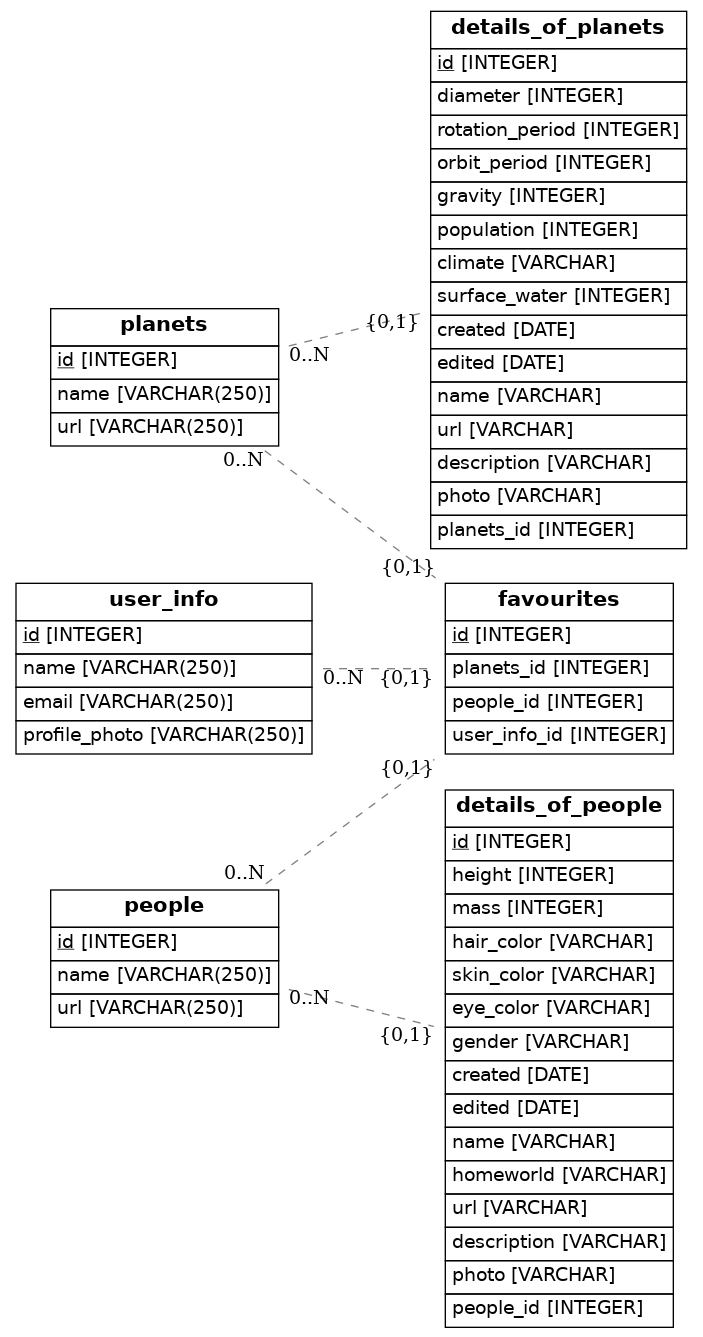
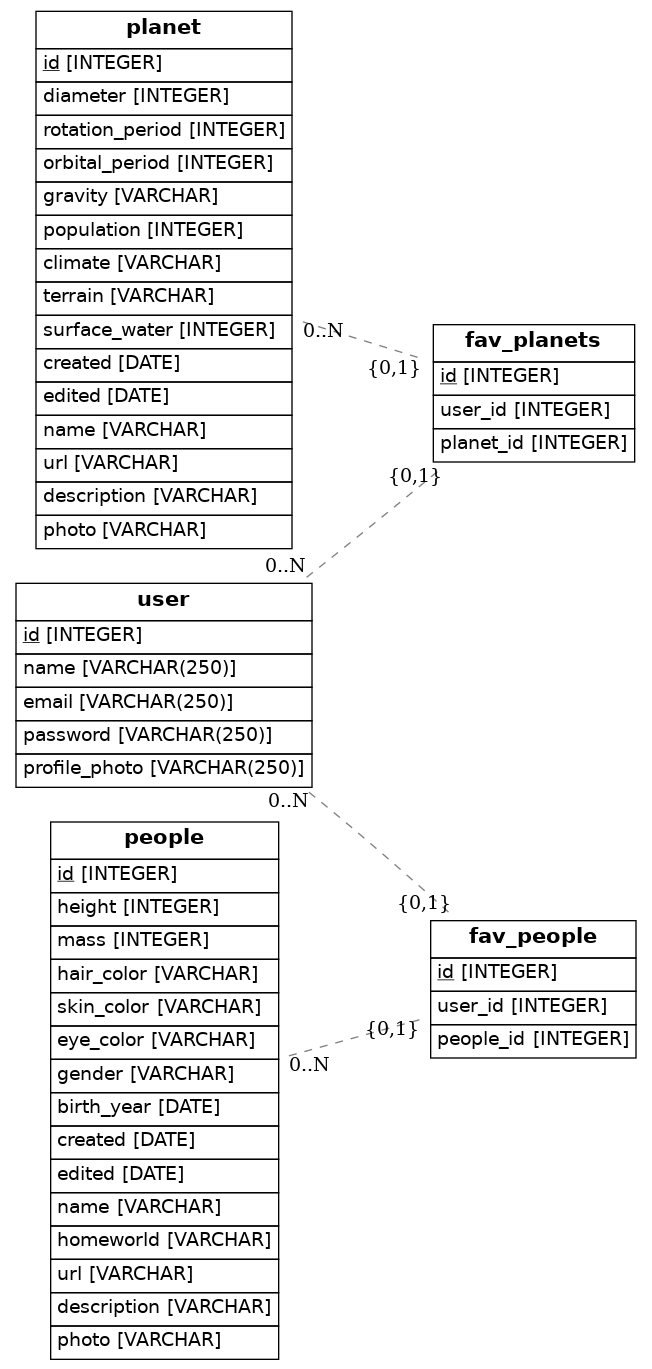
correcion

Changed region(s): [[0.0, 0.0, 0.5521, 1.0], [0.5521, 0.0, 0.9816, 1.0], [0.5521, 0.552, 0.6135, 0.5826]]

diff --git a/src/models.py b/src/models.py
@@ -8,90 +8,143 @@ from eralchemy import render_er
 
 Base = declarative_base()
 
-class People(Base):
-    __tablename__ = 'people'
-    # Here we define columns for the table person
-    # Notice that each column is also a normal Python instance attribute.
-    id = Column(Integer, primary_key=True)
-    name = Column(String(250))
-    url = Column(String(250))
+class Fav_Planets(Base):
+    __tablename__ = 'fav_planets'
 
-class Planets(Base):
-    __tablename__ = 'planets'
+    id = Column(Integer, primary_key=True)
+    user_id = Column(Integer, ForeignKey('user.id'), nullable=False)
+    planet_id = Column(Integer, ForeignKey('planet.id'), nullable=False)
+
+    def serialize(self):
+        return {
+            "id": self.id,
+            "user_id": self.user_id,
+            "planet_id": self.planet_id
+        }
+
+class Fav_People(Base):
+    __tablename__ = 'fav_people'
     # Here we define columns for the table address.
     # Notice that each column is also a normal Python instance attribute.
     id = Column(Integer, primary_key=True)
-    name = Column(String(250)) 
-    url = Column(String(250))
+    user_id = Column(Integer, ForeignKey('user.id'), nullable=False)
+    people_id = Column(Integer, ForeignKey('people.id'), nullable=False)
 
-class Details_of_People(Base):
-    __tablename__ = 'details_of_people'
-    # Here we define columns for the table person
-    # Notice that each column is also a normal Python instance attribute.
+    def serialize(self):
+        return {
+            "id": self.id,
+            "user_id": self.user_id,
+            "people_id": self.people_id
+        }
+
+class Detail_of_Planet(Base):
+    __tablename__ = 'planet'
+    
+    id = Column(Integer, primary_key=True)
+    diameter = Column(Integer)
+    rotation_period = Column(Integer)
+    orbital_period = Column(Integer)
+    gravity = Column(String)
+    population = Column(Integer)
+    climate = Column(String)
+    terrain = Column(String)
+    surface_water = Column(Integer)
+    created = Column(Date)
+    edited = Column(Date)
+    name = Column(String) 
+    url = Column(String)
+    description = Column(String)
+    photo = Column(String)
+    liked_by_users = relationship("Planet_Fav", backref="planet")
+
+    def serialize(self):
+        return {
+            "id": self.id,
+            "diameter": self.diameter,
+            "rotation_period": self.rotation_period,
+            "orbital_period": self.orbital_period,
+            "gravity": self.gravity,
+            "population": self.population,
+            "climate": self.climate,
+            "terrain": self.terrain,
+            "surface_water": self.surface_water,
+            "created": self.created,
+            "edited": self.edited,
+            "name": self.name,
+            "url": self.url,
+            "description": self.description,
+            "photo": self.photo,
+        }
+
+
+    
+class Detail_of_People(Base):
+    __tablename__ = 'people'
+    
     id = Column(Integer, primary_key=True)
     height = Column(Integer)
     mass = Column(Integer)
     hair_color = Column(String)
     skin_color = Column(String)
     eye_color = Column(String)
+    birth_year = Column(Date)
     gender = Column(String)
-    created = Column(Date)
-    edited = Column(Date)
-    name =  Column(String)
-    homeworld =  Column(String)
-    url =  Column(String)
-    description =  Column(String)
-    photo = Column(String)
-    people_id = Column(Integer, ForeignKey('people.id'))
-    people = relationship(People)
-    
-    
-class Details_of_Planets(Base):
-    __tablename__ = 'details_of_planets'
-    # Here we define columns for the table person
-    # Notice that each column is also a normal Python instance attribute.
-    id = Column(Integer, primary_key=True)
-    diameter = Column(Integer)
-    rotation_period = Column(Integer)
-    orbit_period = Column(Integer)
-    gravity = Column(Integer)
-    population = Column(Integer)
-    climate = Column(String)
-    surface_water = Column(Integer)
+    birth_year = Column(Date)
     created = Column(Date)
     edited = Column(Date)
     name = Column(String)
+    homeworld = Column(String)
     url = Column(String)
     description = Column(String)
-    photo =  Column(String)
-    planets_id = Column(Integer, ForeignKey('planets.id'))
-    planets = relationship(Planets)
+    photo = Column(String)
+    liked_by_users = relationship("People_Fav", backref="people")
 
-class User_info(Base):
-    __tablename__ = 'user_info'
-    # Here we define columns for the table person
-    # Notice that each column is also a normal Python instance attribute.
+    def serialize(self):
+        return {
+            "id": self.id,
+            "height": self.height,
+            "mass": self.mass,
+            "hair_color": self.hair_color,
+            "skin_color": self.skin_color,
+            "eye_color": self.eye_color,
+            "birth_year": self.birth_year,
+            "created": self.created,
+            "edited": self.edited,
+            "name": self.name,
+            "homeworld": self.homeworld,
+            "url": self.url,
+            "description": self.description,
+            "photo": self.photo
+        }
+
+class User_Info(Base):
+    __tablename__ = 'user'
+    
     id = Column(Integer, primary_key=True)
     name = Column(String(250), nullable=False)
-    email = Column(String(250), nullable=False)
-    profile_photo  = Column(String(250), nullable=False)
-    
+    email = Column(String(250), nullable=False, unique=True)
+    password = Column(String(250), nullable=False)
+    profile_photo = Column(String(250))
+    favourite_planets = relationship("Planet_Fav", backref="user")
+    favourite_people = relationship("People_Fav", backref="user")
 
-class Favourites(Base):
-    __tablename__ = 'favourites'
-    # Here we define columns for the table person
-    # Notice that each column is also a normal Python instance attribute.
-    id = Column(Integer, primary_key=True)
-    planets_id = Column(Integer, ForeignKey('planets.id'))
-    planets = relationship(Planets)
-    people_id = Column(Integer, ForeignKey('people.id'))
-    people = relationship(People)
-    user_info_id = Column(Integer, ForeignKey('user_info.id'))
-    user_info = relationship(User_info)
-    
+    def serialize(self):
+        return {
+            "id": self.id,
+            "name": self.name,
+            "email": self.email,
+            "profile_photo": self.profile_photo
+        }
 
-    def to_dict(self):
-        return {}
 
 ## Draw from SQLAlchemy base
 render_er(Base, 'diagram.png')
+    
+
+    #def __repr__(self):
+    #    return '<User_Info %r>' % self.username
+    #def to_dict(self):
+     ##   return {}
+
+## Draw from SQLAlchemy base
+#render_er(Base, 'diagram.png')2
